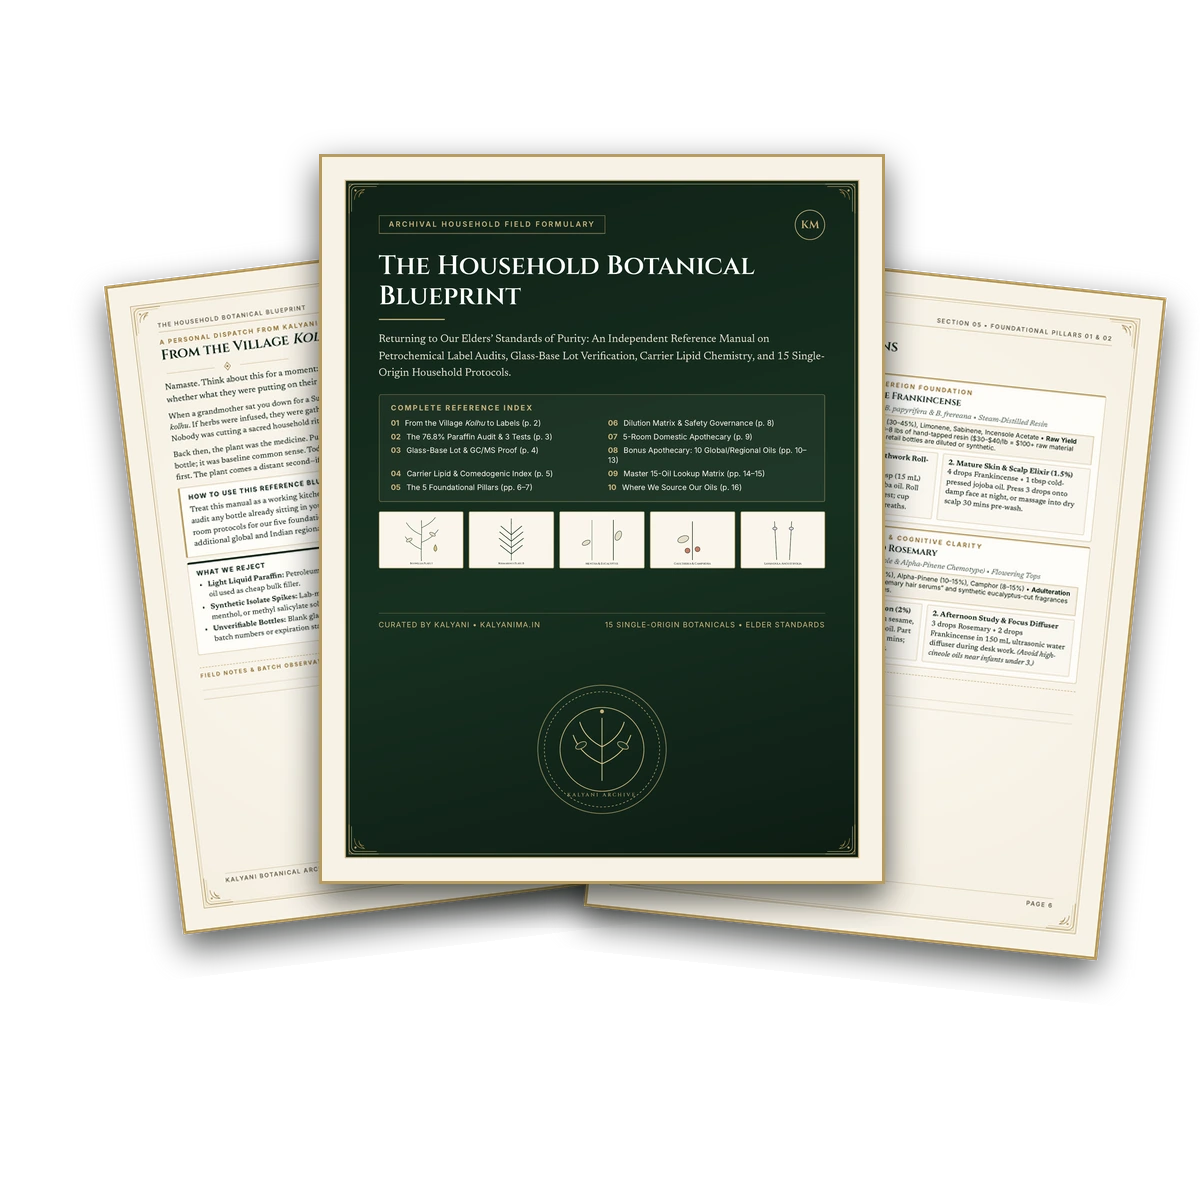
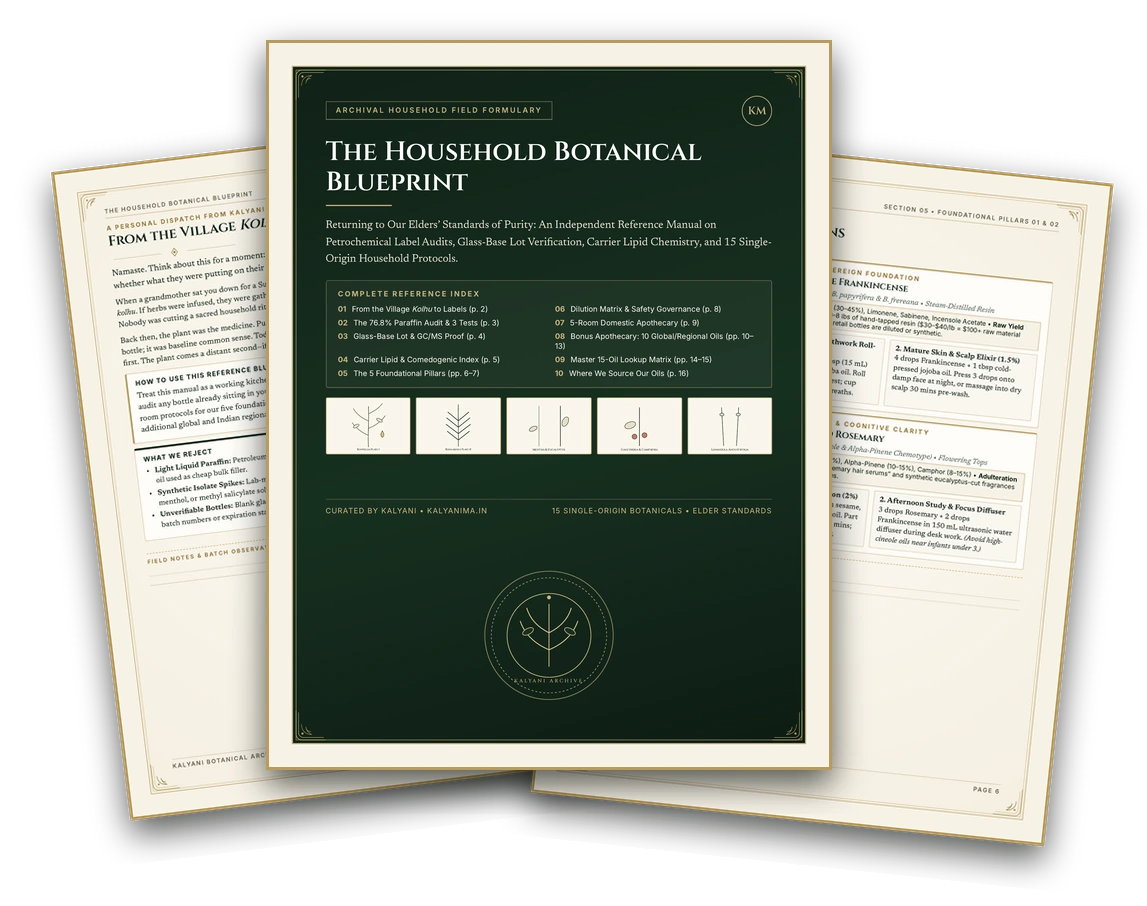
Trim transparent margins and expand Blueprint mockup to full right-column width

diff --git a/partners.html b/partners.html
@@ -624,7 +624,7 @@ function init_tracer() {
                   </div>
                 </div>
                 <p style="margin:10px 0 0;font-size:0.84rem;line-height:1.52;color:rgba(247,242,231,0.76);">Prints in matching muted archival grey at the bottom-left of Page 16 so it looks like a catalog code to guests while proving your ID is locked in.</p>
-              <div style="margin-top:18px;text-align:center;"><img src="images/blueprint-square-mockup.webp" alt="The Household Botanical Blueprint 16-Page Archival Edition" style="width:100%;max-width:440px;height:auto;display:inline-block;filter:drop-shadow(0 16px 30px rgba(0,0,0,0.5));"></div>
+              <div style="margin-top:18px;text-align:center;"><img src="images/blueprint-square-mockup.webp" alt="The Household Botanical Blueprint 16-Page Archival Edition" style="width:100%;max-width:100%;height:auto;display:inline-block;filter:drop-shadow(0 16px 30px rgba(0,0,0,0.5));"></div>
               </div>
             </div>
           </div>
